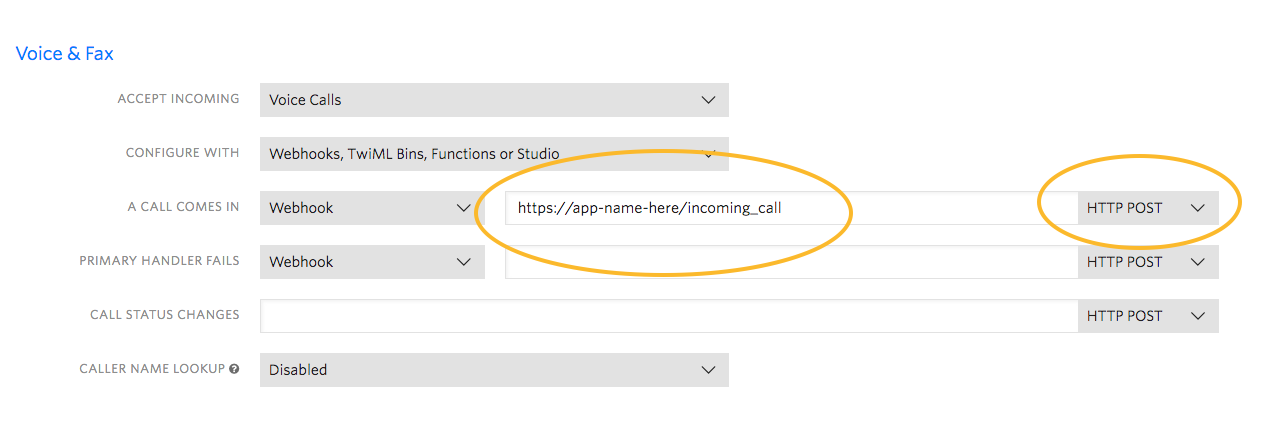
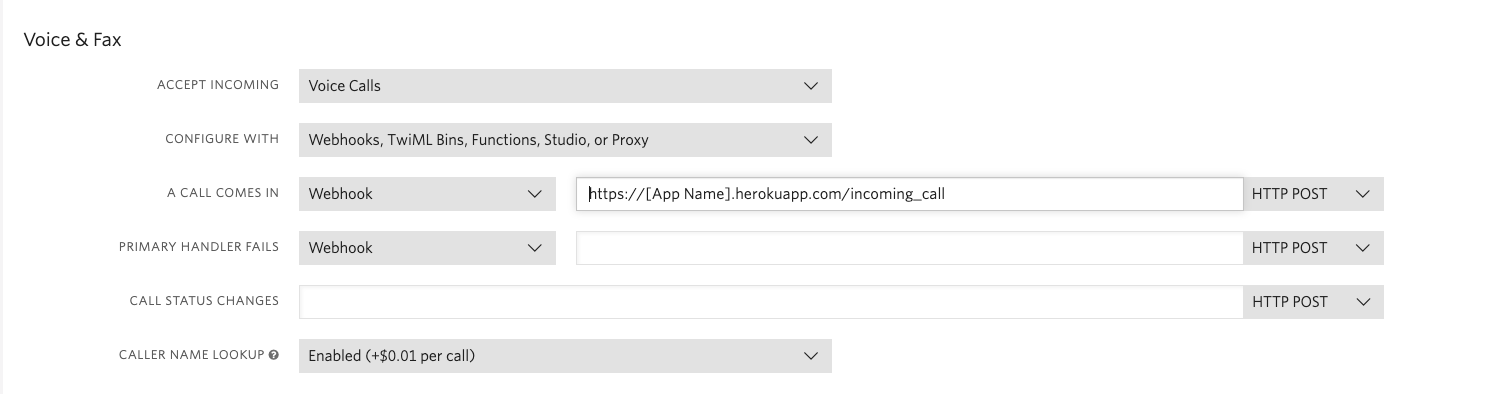
changes to README

diff --git a/README.md b/README.md
@@ -3,19 +3,19 @@ IVR demo showing an integration between VoiceIt's API 2.0 and Twilio's API
 
 ## Pre-Requisites
 
-- Twilio Account
--- [Twilio Developer Registration](https://www.twilio.com/try-twilio)
-- VoiceIt Account
--- [VoiceIt Developer Registration](https://voiceit.io/signup)
-- Heroku Account for hosting app
--- [Heroku Developer Registration](https://signup.heroku.com)
+- Twilio Account -- [Twilio Developer Registration](https://www.twilio.com/try-twilio)
+- VoiceIt Account -- [VoiceIt Developer Registration](https://voiceit.io/signup)
+- Heroku Account for hosting app -- [Heroku Developer Registration](https://signup.heroku.com)
 
 
 After installation you will also need to log in to your Twilio account and point a purchased phone number to this new application like shown below. Make sure to set the webhook for when call comes in to the right URL and set the HTTP request to POST.
 
-<img src="/PointTwilioNumber.png" alt="API Key and Token" width="800px" />
+![PointTwilioNumber.png](PointTwilioNumber.png)
 
-You can call the Twilio number you have pointed to the application and try out the demo, and modify it as desired for your own use case.
+You can get the App Name from your Heroku app console.
+![heroku.png](herokuconsole)
+
+You can call the Twilio number you have pointed to the application and try out the demo, and modify it as desired for your own use case. You can also check out our demo by calling <a href="tel:1-612-400-7423">(612) 400-7423</a>.
 
 ## Manual Install
 
